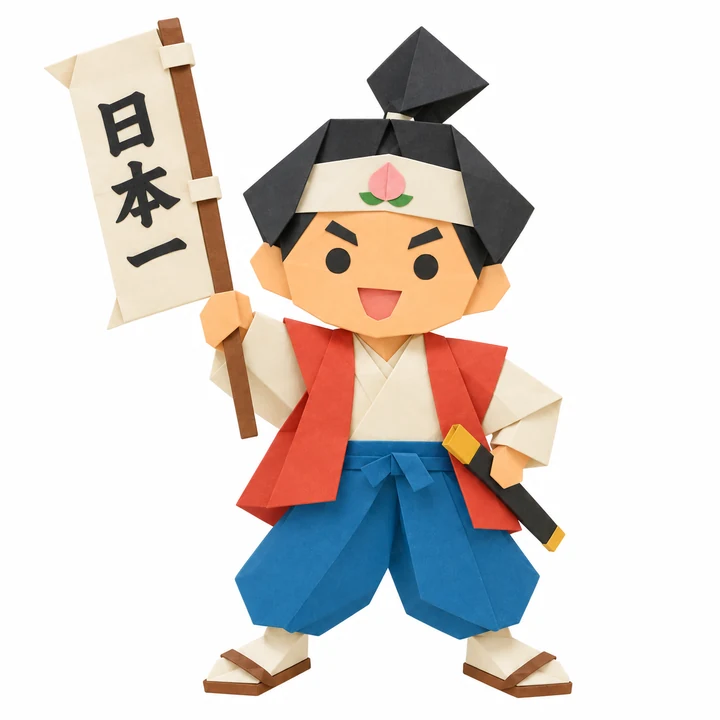
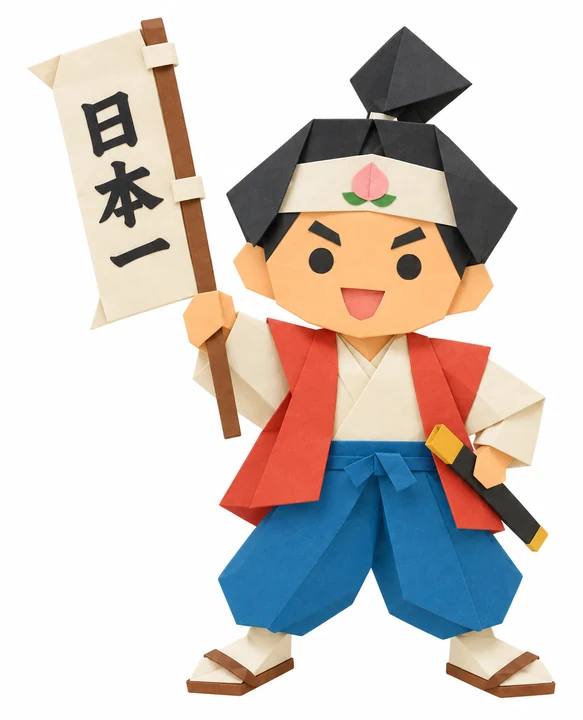
診断結果: タイプ別イラストの余白をトリミングし、上部のイラストを大きく表示

diff --git a/diagnosis/result.html b/diagnosis/result.html
@@ -207,8 +207,8 @@ body{background:#FAF7F2}
 .id-chips span img{width:14px;height:14px;object-fit:contain}
 .id-quote{margin:14px 0 0;position:relative;padding-left:22px;font-size:14.5px;line-height:1.95;color:#3C3A34}
 .id-quote::before{content:"\201C";position:absolute;left:0;top:-2px;font-size:22px;color:#C9C2B4}
-.id-hero{height:380px;display:grid;place-items:end center}
-.id-hero img{max-height:380px;max-width:100%;object-fit:contain}
+.id-hero{height:400px;display:grid;place-items:end center}
+.id-hero img{max-height:400px;max-width:100%;object-fit:contain}
 .id-hero img.illust{mix-blend-mode:multiply}
 .id-side{border:1px solid #E3DCCE;border-radius:10px;background:#FBF8F1;padding:20px 22px 24px;display:grid;gap:12px}
 .id-side .head{font-family:'JetBrains Mono',monospace;font-size:11.5px;letter-spacing:0.12em;color:#3C3A34;border-bottom:1px solid #E3DCCE;padding-bottom:11px}
